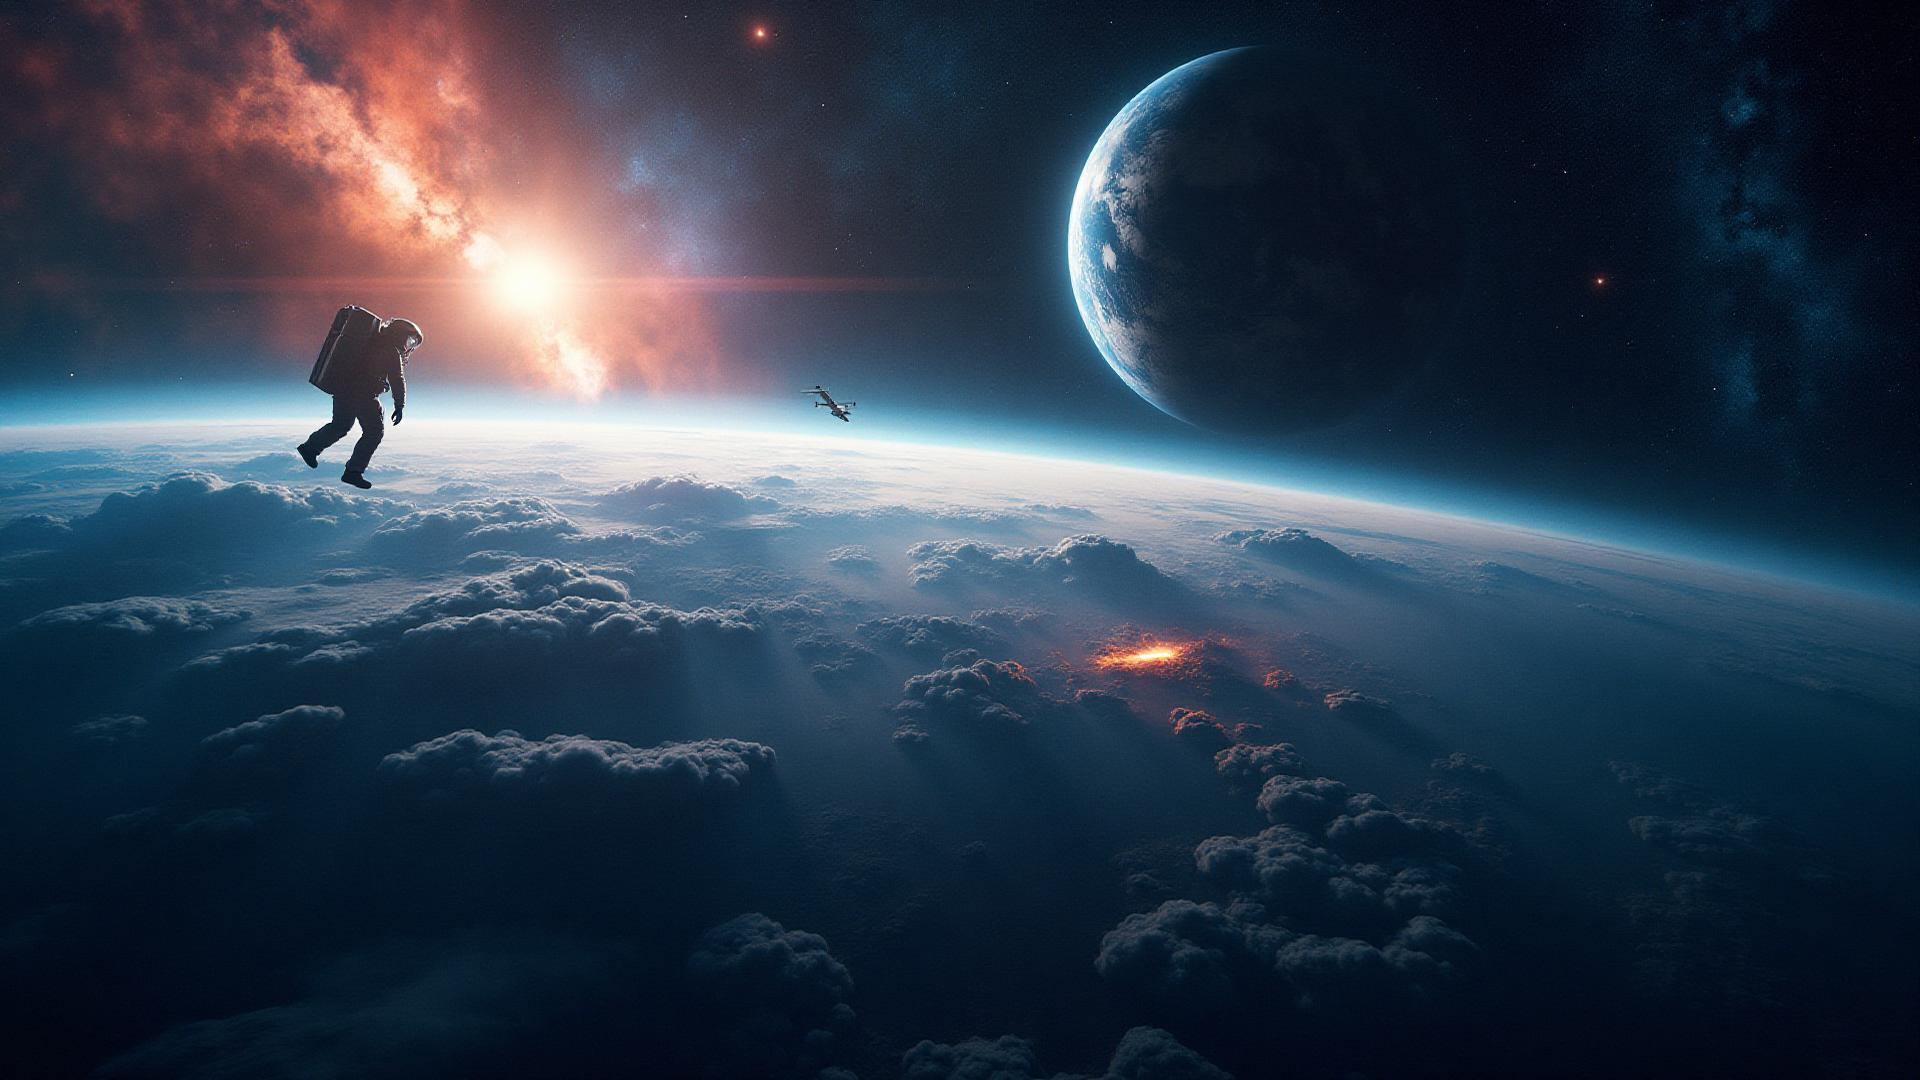
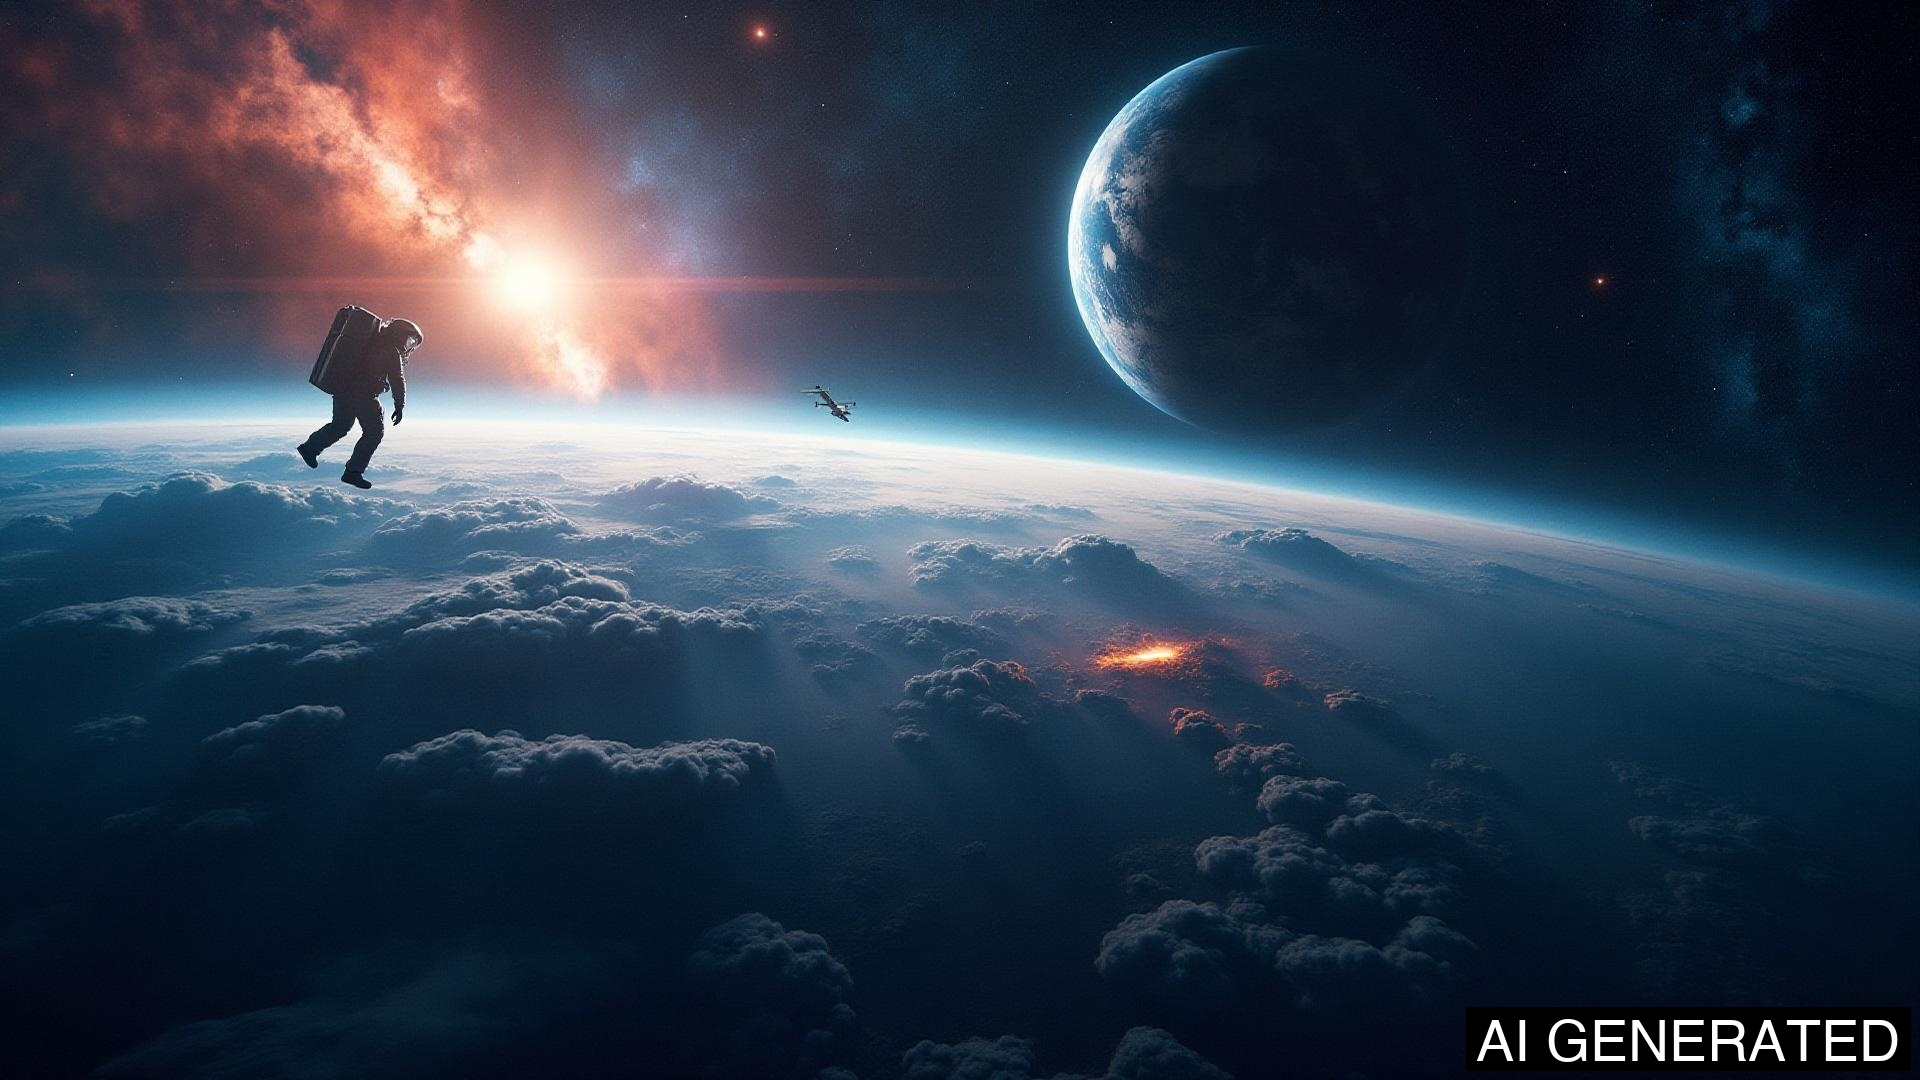
adding ai usage disclosures to images and code per NASA Space Apps rules

Changed region(s): [[0.75, 0.9167, 1.0, 1.0]]

diff --git a/frontend/src/App.tsx b/frontend/src/App.tsx
@@ -1,3 +1,13 @@
+/**
+ * NASA BioExplorer - Main Application Component
+ * 
+ * AI Usage Disclosure (NASA Space Apps Challenge 2025):
+ * - Initial structure generated by Lovable AI platform
+ * - Features and functionality developed with Windsurf AI assistant
+ * - All code reviewed, tested, and customized by human developers
+ * - See AI_DISCLOSURE.md for complete details
+ */
+
 import { Toaster } from "@/components/ui/toaster";
 import { Toaster as Sonner } from "@/components/ui/sonner";
 import { TooltipProvider } from "@/components/ui/tooltip";

diff --git a/frontend/src/pages/Index.tsx b/frontend/src/pages/Index.tsx
@@ -1,3 +1,12 @@
+/**
+ * Landing Page Component
+ * 
+ * AI Usage Disclosure (NASA Space Apps Challenge 2025):
+ * - Component developed with Lovable and Windsurf AI assistance
+ * - Hero image (space-hero.jpg) is AI-generated with visible watermark
+ * - All code reviewed and customized by human developers
+ */
+
 import { Button } from "@/components/ui/button";
 import { Card } from "@/components/ui/card";
 import { Rocket, Database, Brain, ArrowRight } from "lucide-react";

diff --git a/frontend/src/pages/Chat.tsx b/frontend/src/pages/Chat.tsx
@@ -1,3 +1,12 @@
+/**
+ * Chat Interface Component - AI-Powered Space Biology Search
+ * 
+ * AI Usage Disclosure (NASA Space Apps Challenge 2025):
+ * - Component developed with Lovable and Windsurf AI assistance
+ * - All code reviewed, tested, and customized by human developers
+ * - See AI_DISCLOSURE.md for complete details
+ */
+
 import { useState, useEffect } from "react";
 import { Button } from "@/components/ui/button";
 import { Input } from "@/components/ui/input";

diff --git a/backend/llm/llm_rag.py b/backend/llm/llm_rag.py
@@ -1,3 +1,14 @@
+#!/usr/bin/env python3
+"""
+NASA BioExplorer - RAG (Retrieval-Augmented Generation) Pipeline
+
+AI Usage Disclosure (NASA Space Apps Challenge 2025):
+- This RAG pipeline was developed with assistance from ChatGPT AI code assistant
+- All AI-generated code was reviewed, tested, and modified by human developers
+- Algorithm design and implementation validated by the development team
+- See AI_DISCLOSURE.md for complete details
+"""
+
 import os
 from dotenv import load_dotenv
 from langchain_community.embeddings import HuggingFaceEmbeddings

diff --git a/backend/llm/embeddings_builder.py b/backend/llm/embeddings_builder.py
@@ -1,3 +1,13 @@
+#!/usr/bin/env python3
+"""
+NASA BioExplorer - Vector Embeddings Builder
+
+AI Usage Disclosure (NASA Space Apps Challenge 2025):
+- This script was developed with assistance from ChatGPT AI assistant
+- All AI-generated code was reviewed, tested, and modified by human developers
+- See AI_DISCLOSURE.md for complete details
+"""
+
 import os
 import pandas as pd
 from langchain.text_splitter import RecursiveCharacterTextSplitter

diff --git a/backend/app.py b/backend/app.py
@@ -1,3 +1,13 @@
+#!/usr/bin/env python3
+"""
+NASA BioExplorer - Flask API Server
+
+AI Usage Disclosure (NASA Space Apps Challenge 2025):
+- This code was developed with assistance from Windsurf AI code assistant
+- All AI-generated code was reviewed, tested, and modified by human developers
+- See AI_DISCLOSURE.md for complete details
+"""
+
 from flask import Flask, jsonify, request
 from flask_cors import CORS
 from llm.llm_rag import query

diff --git a/backend/scripts/fetchData.py b/backend/scripts/fetchData.py
@@ -1,3 +1,13 @@
+#!/usr/bin/env python3
+"""
+NASA BioExplorer - Data Fetching Script
+
+AI Usage Disclosure (NASA Space Apps Challenge 2025):
+- This script was developed with assistance from ChatGPT AI assistant
+- All AI-generated code was reviewed, tested, and modified by human developers
+- See AI_DISCLOSURE.md for complete details
+"""
+
 import os
 import time
 import pandas as pd

diff --git a/AI_DISCLOSURE.md b/AI_DISCLOSURE.md
@@ -1,0 +1,159 @@
+# AI Usage Disclosure
+## NASA Space Apps Challenge 2025 - AI Tool Compliance
+
+This document provides full transparency regarding the use of Artificial Intelligence (AI) tools in the development of the **NASA BioExplorer** project, in compliance with NASA Space Apps Challenge guidelines.
+
+---
+
+## 🤖 AI Tools Used
+
+### 1. **Lovable** (AI-Powered Development Platform)
+- **Purpose**: Base web application template and initial project scaffolding
+- **Scope**: 
+  - Frontend application structure
+  - React + TypeScript setup
+  - UI component library integration (shadcn/ui)
+  - Initial routing and page layouts
+  - Tailwind CSS configuration
+- **Extent**: Generated the foundational frontend codebase structure
+
+### 2. **Windsurf** and **ChatGPT** (AI Code Assistant)
+- **Purpose**: Feature implementation and code development
+- **Scope**:
+  - Feature implementation across frontend and backend
+  - Code completion and suggestions
+  - Bug fixing and debugging assistance
+  - API integration logic
+  - Component development
+- **Extent**: Assisted with iterative development and feature additions throughout the project
+
+### 3. **AI Image Generation** (Generative AI Tool)
+- **Purpose**: Landing page header image creation
+- **Scope**: Space-themed hero image for the landing page
+- **File**: `/frontend/src/assets/space-hero.jpg`
+- **Disclosure**: Image is watermarked with "AI GENERATED" as per NASA requirements
+
+---
+
+## 📂 Affected Project Components
+
+### **Frontend Code** (`/frontend`)
+- **AI-Assisted Files**:
+  - All TypeScript/React components (`.tsx` files)
+  - UI component configurations
+  - Styling and layout code
+  - Routing and navigation logic
+  - Authentication flows
+- **Tools Used**: Lovable (initial generation), Windsurf (feature development)
+- **Human Contribution**: Architecture decisions, feature specifications, customization, integration, testing
+
+### **Backend Code** (`/backend`)
+- **AI-Assisted Files**:
+  - RAG (Retrieval-Augmented Generation) pipeline
+  - API endpoints
+  - LLM integration logic
+  - Data fetching scripts
+- **Tools Used**: ChatGPT (development assistance)
+- **Human Contribution**: System design, algorithm selection, data processing logic, API design, debugging
+
+### **Images and Visual Assets**
+- **File**: `frontend/src/assets/space-hero.jpg`
+- **Tool**: AI Image Generation
+- **Watermark**: "AI GENERATED" visible watermark added (bottom right)
+- **Human Contribution**: Prompt engineering, image selection, integration
+
+---
+
+## 🎨 AI-Generated Content Details
+
+### Images
+| File | Type | AI Tool | Watermark | Purpose |
+|------|------|---------|-----------|---------|
+| `frontend/src/assets/space-hero.jpg` | Image | AI Image Generator | ✓ Yes (visible) | Landing page hero background |
+
+### Code and Data
+| Component | AI Tool | Human Oversight | Description |
+|-----------|---------|-----------------|-------------|
+| Frontend Application | Lovable + Windsurf | Extensive | React/TypeScript UI with custom features |
+| Backend API | Windsurf | Extensive | Flask API with RAG pipeline |
+| Data Pipeline | ChatGPT | Extensive | NASA data fetching and processing |
+| LLM Integration | ChatGPT | Extensive | Langchain-based RAG implementation |
+
+---
+
+## 👨💻 Human Contribution & Originality
+
+While AI tools accelerated development, the project demonstrates significant human creativity and technical expertise:
+
+### **Original Contributions**
+1. **Project Concept & Architecture**: 
+   - Complete system design for NASA bioscience data exploration
+   - RAG pipeline architecture for scientific literature
+   - User experience and interaction design
+
+2. **Technical Implementation**:
+   - Integration of multiple APIs and services
+   - Custom RAG pipeline configuration
+   - NASA data source selection and processing
+   - Database schema and data modeling
+   - Authentication and security implementation
+
+3. **Problem Solving**:
+   - Debugging and troubleshooting
+   - Performance optimization
+   - Cross-platform compatibility
+   - API endpoint design
+   - Error handling and edge cases
+
+4. **Domain Expertise**:
+   - Understanding of NASA space biology research
+   - Scientific literature processing
+   - User requirements for research tools
+   - Query optimization for scientific data
+
+### **Development Workflow**
+- AI tools provided **code suggestions and scaffolding**
+- Human developers provided **direction, specifications, and validation**
+- All AI-generated code was **reviewed, tested, and modified** by team members
+- Critical logic and algorithms were **designed and verified** by the team
+
+---
+
+## 🔍 Code Review & Quality Assurance
+
+All AI-generated code underwent:
+1. **Human review** for correctness and security
+2. **Testing** for functionality and edge cases
+3. **Modification** to meet specific project requirements
+4. **Integration** with manually written components
+5. **Optimization** for performance and user experience
+
+---
+
+## 📋 NASA Branding Compliance
+
+✓ **No NASA logos, flags, or mission identifiers** were used or modified by AI tools  
+✓ **All NASA-related content** is properly attributed and sourced from public datasets  
+✓ **AI-generated images** do not contain or modify NASA branding
+
+---
+
+## 📝 Metadata Tags
+
+**Project Type**: Web Application  
+**AI Usage**: Code Generation, Image Generation  
+**AI Transparency**: Full Disclosure  
+**Compliance Status**: NASA Space Apps Challenge Guidelines Compliant  
+
+---
+
+## 📧 Contact
+
+For questions about AI usage in this project:
+- **Repository**: https://github.com/Hackathon-Team-WMU/nasa-space-bio
+- **Team**: Hackathon-Team-WMU
+
+---
+
+*Last Updated: October 5, 2025*  
+*Document Version: 1.0*

diff --git a/README.md b/README.md
@@ -148,9 +148,22 @@ npm run dev
 <http://localhost:8080/>
 
 
+## 🤖 AI Usage Disclosure
+
+**This project utilized AI tools in compliance with NASA Space Apps Challenge guidelines:**
+
+- **Code Development**: Lovable (base template) and Windsurf/ChatGPT (feature implementation) were used to accelerate development
+- **Image Generation**: The landing page hero image (`frontend/src/assets/space-hero.jpg`) was AI-generated and includes a visible "AI GENERATED" watermark
+- **Human Oversight**: All AI-generated code and content was reviewed, tested, modified, and integrated by the team
+
+**📄 For complete details**, see [AI_DISCLOSURE.md](./AI_DISCLOSURE.md)
+
+---
+
 ## 👥 Team
 
 This project was built for the **NASA Space Apps Challenge 2025** by **Hackathon-Team-WMU**:  
+https://www.spaceappschallenge.org/2025/find-a-team/team-broncos/
 
 - [Cody Thornell](https://github.com/grcodeman)  
 - [Sresthaa Shaga](https://github.com/Shagasresthaa)    
